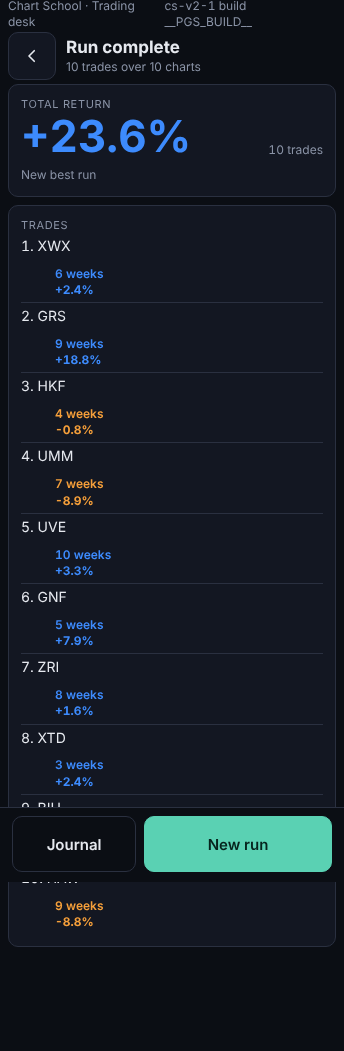
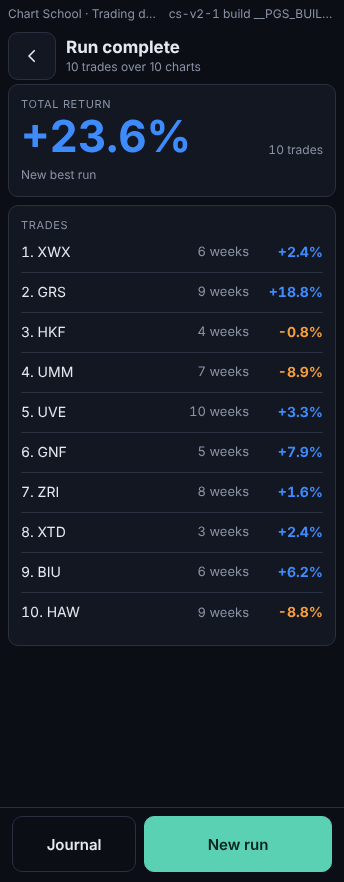
Chart School cs-v2-1 WIP: integration in progress
Claude-Session: https://claude.ai/code/session_01Lcw2xuLJ88ywuYr8YehYo4

diff --git a/pages/chart-school/index.html b/pages/chart-school/index.html
@@ -207,6 +207,16 @@ body.hc .btn.primary{color:#000}
 /* integrator: return colours used by screens-a (retCls good/bad on totals and trade rows) */
 .code.good,b.good,span.good{color:var(--x)}.code.bad,b.bad,span.bad{color:var(--o)}
 .mk .r b{font-weight:700}
+/* integrator: top line never wraps (build stamp can be long) */
+.top{gap:8px;white-space:nowrap;overflow:hidden}
+.top>span:first-child{flex:1 1 auto;min-width:0;overflow:hidden;text-overflow:ellipsis}
+.top>span.num{flex:0 1 auto;min-width:0;overflow:hidden;text-overflow:ellipsis}
+/* integrator: runend trade list, one line per trade */
+.trl{display:flex;align-items:center;gap:10px;min-height:40px;border-bottom:1px solid var(--line);font-size:14px}
+.trl:last-child{border-bottom:0}
+.trl .n{flex:1;min-width:0}.trl .w{color:var(--dim);font-size:13px}.trl b{min-width:64px;text-align:right}
+/* integrator: summary call/return card spans the width */
+.po{flex-wrap:wrap}.po>.sh,.po>.dim{flex:1 1 100%}.po>.sh{margin:0}
 
 </style>
 </head><body>
@@ -512,7 +522,7 @@ var STEP_TYPES = ["R2", "R2b", "R4"];
 var CALLS = ["Buy", "Don't buy"];
 var DEFAULTS = {
   showRsi: 1, showMacd: 1, showColNums: 0, chartCols: 24, readingOrder: "fixed", evidenceAuto: 0,
-  showBaseNote: 1, horizonDefault: 6, runTrades: 10, runCharts: 20, showSector: 1, sectorHeight: 150,
+  showBaseNote: 1, horizonDefault: 6, runTrades: 10, runCharts: 20, showSector: 1, sectorHeight: 180, /* integrator: 150 -> 180 (sector legibility, admin default) */
   textSize: 1.0, highContrast: 0, seed: 48213
 };
 var SHEETS = [], META = {}, RESTORED = false;
@@ -980,6 +990,8 @@ function openTweaks() {
     var pw = W - AX;
     var HT = Math.max(100, +opt.height || 300), compact = !!opt.compact, TT = opt.title ? 14 : 0;
     var FS = compact ? 9 : 11; // axis font
+    var MINC = +opt.minCell || 0, MAXH = Math.max(HT, +opt.maxHeight || HT);
+    var NMAX = Math.max(N0, +opt.maxCols || Math.round(N0 * 1.5)); // spare width shows more columns, but not without limit (more columns = more rows = tinier cells)
     clear(host);
     if (!nCols) { var s0 = el(host, "svg", { width: W, height: 40, viewBox: "0 0 " + W + " 40", role: "img", "aria-label": "Empty point and figure chart" }); return s0; }
 
@@ -998,18 +1010,27 @@ function openTweaks() {
       inc(opt.pick);
       top = hi + 2; bot = lo - 2; rows = top - bot + 1;
       // plot height budget = height - top pad 6 - title strip - column axis 26 (default 300 -> 268, as v1)
-      ch = Math.min((HT - 32 - TT) / rows, 14);
+      var avail = HT - 32 - TT;
+      ch = Math.min(avail / rows, 14);
+      // integrator: legibility floor. When many rows would make cells tiny, grow the chart up to opt.maxHeight.
+      if (MINC && ch < MINC) ch = Math.min(Math.max(avail, Math.min(MAXH - 32 - TT, rows * MINC)) / rows, 14);
     }
     range();
     for (it = 0; it < 4; it++) {
       cell = Math.min(pw / N0, ch);
-      var nN = Math.max(N0, Math.floor(pw / cell + 1e-6));
+      var nN = Math.min(NMAX, Math.max(N0, Math.floor(pw / cell + 1e-6)));
       if (nN === N) break;
       N = nN; range();
     }
     cell = Math.min(pw / N0, ch);
-    N = Math.max(N0, Math.floor(pw / cell + 1e-6));
+    N = Math.min(NMAX, Math.max(N0, Math.floor(pw / cell + 1e-6)));
+    if (N !== nN) range(); // keep rows in step with the columns actually shown
+    cell = Math.min(pw / N0, ch);
     first = Math.max(0, nCols - N);
+    // integrator: when cells are height-bound, fill spare width with older columns that fit the current rows (no new rows)
+    var fitN = Math.floor(pw / cell + 1e-6);
+    while (first > 0 && nCols - first < fitN && cols[first - 1].lo >= lo && cols[first - 1].hi <= hi) first--;
+    N = Math.max(N, nCols - first);
     ch = cell; var c = cell;
     var nTop = 0, nBot = 0;
     ovs.forEach(function (o) { if (o.k === "row" || o.k === "line") { if (o.box > top) nTop++; else if (o.box < bot) nBot++; } });
@@ -1020,7 +1041,7 @@ function openTweaks() {
     function cy(b) { return ty(b) + ch / 2; }
     function cx(j) { return pw - (nCols - j) * c; }  // last column always meets the axis  // left edge of column j
 
-    var s = el(host, "svg", { width: W, height: H, viewBox: "0 0 " + W + " " + H, role: "img",
+    var s = el(host, "svg", { "data-cell": f1(c), "data-rows": rows, width: W, height: H, viewBox: "0 0 " + W + " " + H, role: "img",
       "aria-label": "Point and figure chart, " + nCols + " columns, box 2 percent, last " + disp(cols[nCols - 1].d === 1 ? cols[nCols - 1].hi : cols[nCols - 1].lo) });
     if (opt.title) el(s, "text", { x: 4, y: 8, "dominant-baseline": "central", "font-size": 11, "font-weight": 600, fill: "var(--dim)" }, opt.title);
     var g = el(s, "g", { transform: "translate(0," + OY + ")" });
@@ -1068,19 +1089,19 @@ function openTweaks() {
     });
 
     // boxes
-    var gl = Math.min(c, ch), ins = Math.max(2.5, gl * 0.2);
+    var gl = Math.min(c, ch), ins = Math.max(Math.min(2.5, gl * 0.3), gl * 0.2); // small cells keep a visible glyph (no negative radius)
     for (j = first; j < nCols; j++) {
       var col = cols[j], isX = col.d === 1, clr = isX ? "var(--x)" : "var(--o)";
       for (var b = col.lo; b <= col.hi; b++) {
         var bx = cx(j), by = ty(b);
         var fresh = opt.newFrom != null && wk[j + ":" + b] != null && wk[j + ":" + b] >= opt.newFrom;
         var gx = bx + (c - gl) / 2, gy = by + (ch - gl) / 2;
-        if (fresh) el(g, "rect", { x: f1(bx + 1.5), y: f1(by + 1.5), width: f1(c - 2), height: f1(ch - 2), fill: clr, "fill-opacity": 0.22, stroke: clr, "stroke-width": 1 });
+        if (fresh) el(g, "rect", { x: f1(bx + 1.5), y: f1(by + 1.5), width: f1(Math.max(0.5, c - 2)), height: f1(Math.max(0.5, ch - 2)), fill: clr, "fill-opacity": 0.22, stroke: clr, "stroke-width": 1 });
         if (isX) {
           el(g, "path", { d: "M" + f1(gx + ins + 1) + " " + f1(gy + ins + 1) + "L" + f1(gx + gl - ins) + " " + f1(gy + gl - ins) + "M" + f1(gx + gl - ins) + " " + f1(gy + ins + 1) + "L" + f1(gx + ins + 1) + " " + f1(gy + gl - ins),
             stroke: clr, "stroke-width": fresh ? 2.2 : 1.8, "stroke-linecap": "round", fill: "none" });
         } else {
-          el(g, "circle", { cx: f1(bx + c / 2 + 0.5), cy: f1(by + ch / 2 + 0.5), r: f1((gl - 2 * ins) / 2), stroke: clr, "stroke-width": fresh ? 2.2 : 1.8, fill: "none" });
+          el(g, "circle", { cx: f1(bx + c / 2 + 0.5), cy: f1(by + ch / 2 + 0.5), r: f1(Math.max(0.8, (gl - 2 * ins) / 2)), stroke: clr, "stroke-width": fresh ? 2.2 : 1.8, fill: "none" });
         }
       }
     }
@@ -1103,7 +1124,7 @@ function openTweaks() {
         }
         var y = cy(o.box);
         if (o.k === "row") {
-          el(g, "rect", { x: 0.5, y: f1(ty(o.box) + 0.5), width: f1(pw - 1), height: f1(ch - 1), rx: 2, fill: eng2 ? "var(--text)" : "none", "fill-opacity": 0.1,
+          el(g, "rect", { x: 0.5, y: f1(ty(o.box) + 0.5), width: f1(pw - 1), height: f1(Math.max(0.5, ch - 1)), rx: 2, fill: eng2 ? "var(--text)" : "none", "fill-opacity": 0.1,
             stroke: eng2 ? "var(--text)" : "var(--dim)", "stroke-width": eng2 ? 1.6 : 1.3, "stroke-dasharray": eng2 ? null : "1.5 3" });
         } else {
           el(g, "line", eng2 ? { x1: 0, y1: f1(y), x2: f1(pw), y2: f1(y), stroke: "var(--text)", "stroke-width": 1.8, "stroke-dasharray": "6 3.5" }
@@ -1410,8 +1431,8 @@ function openTweaks() {
     var best = bestOf();
     var isBest = best && num(best.ret) !== null && Math.abs(best.ret - total) < 1e-9;
     var list = tr.length ? tr.map(function (t, i) {
-      return '<div class="mk ' + retCls(t.ret) + '"><span class="n num">' + (i + 1) + '. ' + esc(t.code || '---') + '</span>' +
-        '<span class="r num"><span>' + esc(t.h || '?') + ' weeks</span><b>' + esc(fmtRet(t.ret) || '--') + '</b></span></div>';
+      return '<div class="trl num"><span class="n">' + (i + 1) + '. ' + esc(t.code || '---') + '</span>' +
+        '<span class="w">' + esc(t.h || '?') + ' weeks</span><b class="' + retCls(t.ret) + '">' + esc(fmtRet(t.ret) || '--') + '</b></div>';
     }).join('') : '<p class="dim" style="margin:0">No trades in this run.</p>';
     $('main').innerHTML = header('Run complete', tr.length + ' trades over ' + (run.charts || 0) + ' charts', {}) +
       '<section class="card next" aria-label="Run result"><div class="cap">Total return</div>' +
@@ -1567,7 +1588,8 @@ function openTweaks() {
       var op = {
         bars: o.bars || c.bars, eng: o.eng || c.eng, newFrom: o.newFrom == null ? null : o.newFrom,
         cols: T.chartCols || 24, showColNums: !!T.showColNums, overlays: o.overlays || [],
-        pick: o.pick == null ? null : o.pick, onRow: o.onRow || null, height: o.height || 300
+        pick: o.pick == null ? null : o.pick, onRow: o.onRow || null, height: o.height || 300,
+        minCell: 7, maxHeight: o.maxHeight || Math.round((o.height || 300) * 1.4) /* integrator: legibility floor */
       };
       if (o.compact) op.compact = true;
       drawPnf(host, op);
@@ -1580,8 +1602,9 @@ function openTweaks() {
     safe(host, function () {
       drawPnf(host, {
         bars: o.bars || c.sec.bars, eng: o.eng || c.sec.eng, newFrom: o.newFrom == null ? null : o.newFrom,
-        cols: T.chartCols || 24, showColNums: false, overlays: o.overlays || [],
-        height: o.height || T.sectorHeight || 150, compact: true, title: "Sector · " + c.sec.name
+        cols: Math.min(T.chartCols || 24, 16), showColNums: false, overlays: o.overlays || [], /* integrator: 16 sector cols max, legibility */
+        height: o.height || T.sectorHeight || 180, compact: true, title: "Sector · " + c.sec.name,
+        minCell: 6, maxHeight: Math.max(o.height || T.sectorHeight || 180, 260), maxCols: 20
       });
     });
   }
@@ -1782,14 +1805,14 @@ function openTweaks() {
       '<p class="dim note">Buy keeps the trade open for the horizon. Don\'t buy takes no trade; you still see what happened.</p></div>';
 
     $("main").innerHTML = hd + '<div class="stack"><div class="card pf">' + '<div id="pf"></div></div>' +
-      secPane(c, "call") + callCard + hz + '</div>';
+      callCard + hz + secPane(c, "call") + "</div>"; /* integrator: controls above the fold at 344x882; sector chart below them */
 
     var ov = [{ k: "close", box: c.closeBox }];
     var t1 = trendOv(c.eng); if (t1) ov.push(t1);
-    drawChart(c, { overlays: ov, height: 200, compact: true });
+    drawChart(c, { overlays: ov, height: 220, maxHeight: 290, compact: true });
     if (showSector(c, "call")) {
       var sov = [], t2 = trendOv(c.sec.eng); if (t2) sov.push(t2);
-      drawSector(c, { overlays: sov, height: Math.min(T.sectorHeight || 150, 130) });
+      drawSector(c, { overlays: sov, height: Math.min(T.sectorHeight || 180, 150) });
     }
     var inp = $("horizon");
     if (inp) {

diff --git a/pages/chart-school/src/chart.js b/pages/chart-school/src/chart.js
@@ -43,6 +43,8 @@
     var pw = W - AX;
     var HT = Math.max(100, +opt.height || 300), compact = !!opt.compact, TT = opt.title ? 14 : 0;
     var FS = compact ? 9 : 11; // axis font
+    var MINC = +opt.minCell || 0, MAXH = Math.max(HT, +opt.maxHeight || HT);
+    var NMAX = Math.max(N0, +opt.maxCols || Math.round(N0 * 1.5)); // spare width shows more columns, but not without limit (more columns = more rows = tinier cells)
     clear(host);
     if (!nCols) { var s0 = el(host, "svg", { width: W, height: 40, viewBox: "0 0 " + W + " 40", role: "img", "aria-label": "Empty point and figure chart" }); return s0; }
 
@@ -61,18 +63,27 @@
       inc(opt.pick);
       top = hi + 2; bot = lo - 2; rows = top - bot + 1;
       // plot height budget = height - top pad 6 - title strip - column axis 26 (default 300 -> 268, as v1)
-      ch = Math.min((HT - 32 - TT) / rows, 14);
+      var avail = HT - 32 - TT;
+      ch = Math.min(avail / rows, 14);
+      // integrator: legibility floor. When many rows would make cells tiny, grow the chart up to opt.maxHeight.
+      if (MINC && ch < MINC) ch = Math.min(Math.max(avail, Math.min(MAXH - 32 - TT, rows * MINC)) / rows, 14);
     }
     range();
     for (it = 0; it < 4; it++) {
       cell = Math.min(pw / N0, ch);
-      var nN = Math.max(N0, Math.floor(pw / cell + 1e-6));
+      var nN = Math.min(NMAX, Math.max(N0, Math.floor(pw / cell + 1e-6)));
       if (nN === N) break;
       N = nN; range();
     }
     cell = Math.min(pw / N0, ch);
-    N = Math.max(N0, Math.floor(pw / cell + 1e-6));
+    N = Math.min(NMAX, Math.max(N0, Math.floor(pw / cell + 1e-6)));
+    if (N !== nN) range(); // keep rows in step with the columns actually shown
+    cell = Math.min(pw / N0, ch);
     first = Math.max(0, nCols - N);
+    // integrator: when cells are height-bound, fill spare width with older columns that fit the current rows (no new rows)
+    var fitN = Math.floor(pw / cell + 1e-6);
+    while (first > 0 && nCols - first < fitN && cols[first - 1].lo >= lo && cols[first - 1].hi <= hi) first--;
+    N = Math.max(N, nCols - first);
     ch = cell; var c = cell;
     var nTop = 0, nBot = 0;
     ovs.forEach(function (o) { if (o.k === "row" || o.k === "line") { if (o.box > top) nTop++; else if (o.box < bot) nBot++; } });
@@ -83,7 +94,7 @@
     function cy(b) { return ty(b) + ch / 2; }
     function cx(j) { return pw - (nCols - j) * c; }  // last column always meets the axis  // left edge of column j
 
-    var s = el(host, "svg", { width: W, height: H, viewBox: "0 0 " + W + " " + H, role: "img",
+    var s = el(host, "svg", { "data-cell": f1(c), "data-rows": rows, width: W, height: H, viewBox: "0 0 " + W + " " + H, role: "img",
       "aria-label": "Point and figure chart, " + nCols + " columns, box 2 percent, last " + disp(cols[nCols - 1].d === 1 ? cols[nCols - 1].hi : cols[nCols - 1].lo) });
     if (opt.title) el(s, "text", { x: 4, y: 8, "dominant-baseline": "central", "font-size": 11, "font-weight": 600, fill: "var(--dim)" }, opt.title);
     var g = el(s, "g", { transform: "translate(0," + OY + ")" });
@@ -131,19 +142,19 @@
     });
 
     // boxes
-    var gl = Math.min(c, ch), ins = Math.max(2.5, gl * 0.2);
+    var gl = Math.min(c, ch), ins = Math.max(Math.min(2.5, gl * 0.3), gl * 0.2); // small cells keep a visible glyph (no negative radius)
     for (j = first; j < nCols; j++) {
       var col = cols[j], isX = col.d === 1, clr = isX ? "var(--x)" : "var(--o)";
       for (var b = col.lo; b <= col.hi; b++) {
         var bx = cx(j), by = ty(b);
         var fresh = opt.newFrom != null && wk[j + ":" + b] != null && wk[j + ":" + b] >= opt.newFrom;
         var gx = bx + (c - gl) / 2, gy = by + (ch - gl) / 2;
-        if (fresh) el(g, "rect", { x: f1(bx + 1.5), y: f1(by + 1.5), width: f1(c - 2), height: f1(ch - 2), fill: clr, "fill-opacity": 0.22, stroke: clr, "stroke-width": 1 });
+        if (fresh) el(g, "rect", { x: f1(bx + 1.5), y: f1(by + 1.5), width: f1(Math.max(0.5, c - 2)), height: f1(Math.max(0.5, ch - 2)), fill: clr, "fill-opacity": 0.22, stroke: clr, "stroke-width": 1 });
         if (isX) {
           el(g, "path", { d: "M" + f1(gx + ins + 1) + " " + f1(gy + ins + 1) + "L" + f1(gx + gl - ins) + " " + f1(gy + gl - ins) + "M" + f1(gx + gl - ins) + " " + f1(gy + ins + 1) + "L" + f1(gx + ins + 1) + " " + f1(gy + gl - ins),
             stroke: clr, "stroke-width": fresh ? 2.2 : 1.8, "stroke-linecap": "round", fill: "none" });
         } else {
-          el(g, "circle", { cx: f1(bx + c / 2 + 0.5), cy: f1(by + ch / 2 + 0.5), r: f1((gl - 2 * ins) / 2), stroke: clr, "stroke-width": fresh ? 2.2 : 1.8, fill: "none" });
+          el(g, "circle", { cx: f1(bx + c / 2 + 0.5), cy: f1(by + ch / 2 + 0.5), r: f1(Math.max(0.8, (gl - 2 * ins) / 2)), stroke: clr, "stroke-width": fresh ? 2.2 : 1.8, fill: "none" });
         }
       }
     }
@@ -166,7 +177,7 @@
         }
         var y = cy(o.box);
         if (o.k === "row") {
-          el(g, "rect", { x: 0.5, y: f1(ty(o.box) + 0.5), width: f1(pw - 1), height: f1(ch - 1), rx: 2, fill: eng2 ? "var(--text)" : "none", "fill-opacity": 0.1,
+          el(g, "rect", { x: 0.5, y: f1(ty(o.box) + 0.5), width: f1(pw - 1), height: f1(Math.max(0.5, ch - 1)), rx: 2, fill: eng2 ? "var(--text)" : "none", "fill-opacity": 0.1,
             stroke: eng2 ? "var(--text)" : "var(--dim)", "stroke-width": eng2 ? 1.6 : 1.3, "stroke-dasharray": eng2 ? null : "1.5 3" });
         } else {
           el(g, "line", eng2 ? { x1: 0, y1: f1(y), x2: f1(pw), y2: f1(y), stroke: "var(--text)", "stroke-width": 1.8, "stroke-dasharray": "6 3.5" }

diff --git a/pages/chart-school/src/screens-b.js b/pages/chart-school/src/screens-b.js
@@ -96,7 +96,8 @@
       var op = {
         bars: o.bars || c.bars, eng: o.eng || c.eng, newFrom: o.newFrom == null ? null : o.newFrom,
         cols: T.chartCols || 24, showColNums: !!T.showColNums, overlays: o.overlays || [],
-        pick: o.pick == null ? null : o.pick, onRow: o.onRow || null, height: o.height || 300
+        pick: o.pick == null ? null : o.pick, onRow: o.onRow || null, height: o.height || 300,
+        minCell: 7, maxHeight: o.maxHeight || Math.round((o.height || 300) * 1.4) /* integrator: legibility floor */
       };
       if (o.compact) op.compact = true;
       drawPnf(host, op);
@@ -109,8 +110,9 @@
     safe(host, function () {
       drawPnf(host, {
         bars: o.bars || c.sec.bars, eng: o.eng || c.sec.eng, newFrom: o.newFrom == null ? null : o.newFrom,
-        cols: T.chartCols || 24, showColNums: false, overlays: o.overlays || [],
-        height: o.height || T.sectorHeight || 150, compact: true, title: "Sector · " + c.sec.name
+        cols: Math.min(T.chartCols || 24, 16), showColNums: false, overlays: o.overlays || [], /* integrator: 16 sector cols max, legibility */
+        height: o.height || T.sectorHeight || 180, compact: true, title: "Sector · " + c.sec.name,
+        minCell: 6, maxHeight: Math.max(o.height || T.sectorHeight || 180, 260), maxCols: 20
       });
     });
   }
@@ -311,14 +313,14 @@
       '<p class="dim note">Buy keeps the trade open for the horizon. Don\'t buy takes no trade; you still see what happened.</p></div>';
 
     $("main").innerHTML = hd + '<div class="stack"><div class="card pf">' + '<div id="pf"></div></div>' +
-      secPane(c, "call") + callCard + hz + '</div>';
+      callCard + hz + secPane(c, "call") + "</div>"; /* integrator: controls above the fold at 344x882; sector chart below them */
 
     var ov = [{ k: "close", box: c.closeBox }];
     var t1 = trendOv(c.eng); if (t1) ov.push(t1);
-    drawChart(c, { overlays: ov, height: 200, compact: true });
+    drawChart(c, { overlays: ov, height: 220, maxHeight: 290, compact: true });
     if (showSector(c, "call")) {
       var sov = [], t2 = trendOv(c.sec.eng); if (t2) sov.push(t2);
-      drawSector(c, { overlays: sov, height: Math.min(T.sectorHeight || 150, 130) });
+      drawSector(c, { overlays: sov, height: Math.min(T.sectorHeight || 180, 150) });
     }
     var inp = $("horizon");
     if (inp) {

diff --git a/pages/chart-school/test/e2e.js b/pages/chart-school/test/e2e.js
@@ -43,6 +43,7 @@ async function look(page, tag, label, shot) {
       const h = el.getBoundingClientRect().height;
       if (h < 47.5) out.small.push((el.dataset.act || el.dataset.opt || el.id || el.textContent.trim()).slice(0, 30) + '=' + Math.round(h));
     });
+    out.tiny = [...document.querySelectorAll('#pfs svg[data-cell]')].map(s => +s.dataset.cell).filter(c => c < 3);
     document.querySelectorAll('#main svg').forEach(s => {
       const b = s.getBoundingClientRect();
       if (b.right > window.innerWidth + 0.5 || b.left < -0.5) out.wide.push(Math.round(b.left) + '..' + Math.round(b.right));
@@ -56,6 +57,7 @@ async function look(page, tag, label, shot) {
   }, FORBIDDEN.source);
   ok(r.overflow <= 0, `${tag} ${label}: horizontal overflow ${r.overflow}px`);
   ok(r.wide.length === 0, `${tag} ${label}: svg outside viewport ${r.wide.join(', ')}`);
+  ok(!r.tiny.length, `${tag} ${label}: sector chart cells under 3px: ${r.tiny.join(', ')}`);
   ok(r.small.length === 0, `${tag} ${label}: controls under 48px: ${r.small.join(', ')}`);
   ok(r.bad.length === 0, `${tag} ${label}: bad text ${r.bad.join(', ')}`);
   ok(r.forb.length === 0, `${tag} ${label}: forbidden words ${r.forb.join(', ')}`);
@@ -222,7 +224,7 @@ async function migration(browser, base, size) {
 
 async function run(browser, base, size) {
   const tag = size.w + 'x' + size.h;
-  const shots = size.w === 344;
+  const shots = true; // 344x882 is the required set; 475x638 kept for comparison
   console.log('== ' + tag);
   const { ctx, page, errs } = await newPage(browser, base, size);
   await page.goto(base + 'index.html');

diff --git a/pages/chart-school/src/screens-a.js b/pages/chart-school/src/screens-a.js
@@ -120,8 +120,8 @@
     var best = bestOf();
     var isBest = best && num(best.ret) !== null && Math.abs(best.ret - total) < 1e-9;
     var list = tr.length ? tr.map(function (t, i) {
-      return '<div class="mk ' + retCls(t.ret) + '"><span class="n num">' + (i + 1) + '. ' + esc(t.code || '---') + '</span>' +
-        '<span class="r num"><span>' + esc(t.h || '?') + ' weeks</span><b>' + esc(fmtRet(t.ret) || '--') + '</b></span></div>';
+      return '<div class="trl num"><span class="n">' + (i + 1) + '. ' + esc(t.code || '---') + '</span>' +
+        '<span class="w">' + esc(t.h || '?') + ' weeks</span><b class="' + retCls(t.ret) + '">' + esc(fmtRet(t.ret) || '--') + '</b></div>';
     }).join('') : '<p class="dim" style="margin:0">No trades in this run.</p>';
     $('main').innerHTML = header('Run complete', tr.length + ' trades over ' + (run.charts || 0) + ' charts', {}) +
       '<section class="card next" aria-label="Run result"><div class="cap">Total return</div>' +

diff --git a/pages/chart-school/src/style.css b/pages/chart-school/src/style.css
@@ -165,3 +165,13 @@ body.hc .btn.primary{color:#000}
 /* integrator: return colours used by screens-a (retCls good/bad on totals and trade rows) */
 .code.good,b.good,span.good{color:var(--x)}.code.bad,b.bad,span.bad{color:var(--o)}
 .mk .r b{font-weight:700}
+/* integrator: top line never wraps (build stamp can be long) */
+.top{gap:8px;white-space:nowrap;overflow:hidden}
+.top>span:first-child{flex:1 1 auto;min-width:0;overflow:hidden;text-overflow:ellipsis}
+.top>span.num{flex:0 1 auto;min-width:0;overflow:hidden;text-overflow:ellipsis}
+/* integrator: runend trade list, one line per trade */
+.trl{display:flex;align-items:center;gap:10px;min-height:40px;border-bottom:1px solid var(--line);font-size:14px}
+.trl:last-child{border-bottom:0}
+.trl .n{flex:1;min-width:0}.trl .w{color:var(--dim);font-size:13px}.trl b{min-width:64px;text-align:right}
+/* integrator: summary call/return card spans the width */
+.po{flex-wrap:wrap}.po>.sh,.po>.dim{flex:1 1 100%}.po>.sh{margin:0}

diff --git a/pages/chart-school/src/store.js b/pages/chart-school/src/store.js
@@ -8,7 +8,7 @@ var STEP_TYPES = ["R2", "R2b", "R4"];
 var CALLS = ["Buy", "Don't buy"];
 var DEFAULTS = {
   showRsi: 1, showMacd: 1, showColNums: 0, chartCols: 24, readingOrder: "fixed", evidenceAuto: 0,
-  showBaseNote: 1, horizonDefault: 6, runTrades: 10, runCharts: 20, showSector: 1, sectorHeight: 150,
+  showBaseNote: 1, horizonDefault: 6, runTrades: 10, runCharts: 20, showSector: 1, sectorHeight: 180, /* integrator: 150 -> 180 (sector legibility, admin default) */
   textSize: 1.0, highContrast: 0, seed: 48213
 };
 var SHEETS = [], META = {}, RESTORED = false;

diff --git a/pages/chart-school/qa/v2/INTEGRATION.md b/pages/chart-school/qa/v2/INTEGRATION.md
@@ -1,0 +1,33 @@
+# Chart School v2 integration (build cs-v2-1, 2026-11-25)
+
+## Tests
+- `node test/engine.test.js`: 6463 checks, 0 failed
+- `node test/bots.test.js`: PASS (every bot under 40% per type incl. S1/S2; 3 of 3 under 10%)
+- `node test/solver.test.js`: PASS, 10 types at 100% (R1..R7, R2b, plus new S1/S2 = R1/R3 logic on the sector chart), 480 sheets
+- `node test/e2e.js`: 3008/3008 checks, PASS at 344x882 and 475x638
+
+e2e now covers: v1 saved state migrates (record + journal kept, new run, v1 journal entry renders); full Buy run (3 readings per chart, 3 distinct types, at least one stock type, header "Reading i of 3", rule card, Review charts back and forth, -/+ clamped 3..10, range input set like a drag, Buy, trade ret = fwdRet[h-1], advance exactly h weeks, outcome text with final return, run ends at the 10th Buy, runend shows the total return and "10 trades", best run stored as an int); a Don't buy run that ends at chart 20 with "+0.0%" and 0 trades and does not overwrite the best run; New run; tweak menu, presets, report JSON (9 record rows); reload keeps state. Every screen: no Hold, no sideways overflow, no svg outside the viewport, no NaN/undefined, no forbidden words, controls >= 48px, sector chart cells >= 3px, no console errors.
+
+## Fixed
+- main.js: BUILD cs-v2-1; dispatch desk, reading, marked, call, outcome, summary, journal, runend (order/evidence removed). Renamed its map to SCREEN_FN: it clashed with store.js's global `SCREENS` list. Boot uses store validation; `newRun` replaces old `savedValid`/`newSession`.
+- ui-kit.js: top line "Chart School · Trading desk". style.css: top line no longer wraps (ellipsis) with a long build stamp.
+- Hold wording: removed "holds" from the call note and the R7 rule text ("If neither is true").
+- Return text: store `retTxt` never prints "-0.0%"; screens-a and screens-b now use it, so every screen shows the same figure.
+- screens-a: best line reads `S.best.trades` as an int; desk after a finished run shows a fresh run (Start run) not "Trade 11"; runend trade list one line per trade; return colours (.good/.bad) had no CSS; summary call/return card spanned half the width.
+- chart.js: negative SVG radius/width console errors on tiny cells; legibility floor (opt.minCell, opt.maxHeight: chart grows taller instead of shrinking cells), cap on "spare width shows more columns" (more columns meant more rows and tinier cells), older columns fill spare width only when they need no new rows. `data-cell`/`data-rows` on the svg for tests.
+- Sector chart: max 16 columns, sectorHeight default 150 -> 180 (admin default), minCell 6, grows to 260 px. Over all 480 sheets at 344 wide: sector cell median 6 px, p10 5.6, min 3.2 (was median ~4.5, p90 rows 43 at 150 px). Stock chart: minCell 7, grows to 420 px.
+- Call screen: Buy / Don't buy and the horizon slider moved above the sector chart so they sit above the fold at 344x882.
+- Exit label at the right edge: right-anchored, checked in outcome screenshots, no clipping.
+- All sheet bars go through `toBars` ([h,l,c] -> {h,l,c}) before CSE.pnf (stock, sector, fwd).
+- solver.test.js: S1/S2 added.
+
+## Checked, no change
+- sw.js / shared PWA core: network first, build-keyed cache, sheets.json (2.4 MB) precached with allSettled; no change needed.
+
+## Not verified
+- Real phone touch drag on the range slider (e2e sets the value and fires `input`).
+- Offline/SW update path (e2e blocks service workers).
+- Mockup visual pass (later step).
+
+## Screenshots (deviceScaleFactor 1, full page; the fixed bottom bar shows mid page in full-page shots)
+qa/v2/344x882-desk.png, -reading-sector.png, -marked-sector.png, -call.png, -outcome-mid.png, -outcome-exit.png, -summary.png, -runend.png, -journal.png (same set at 475x638).
